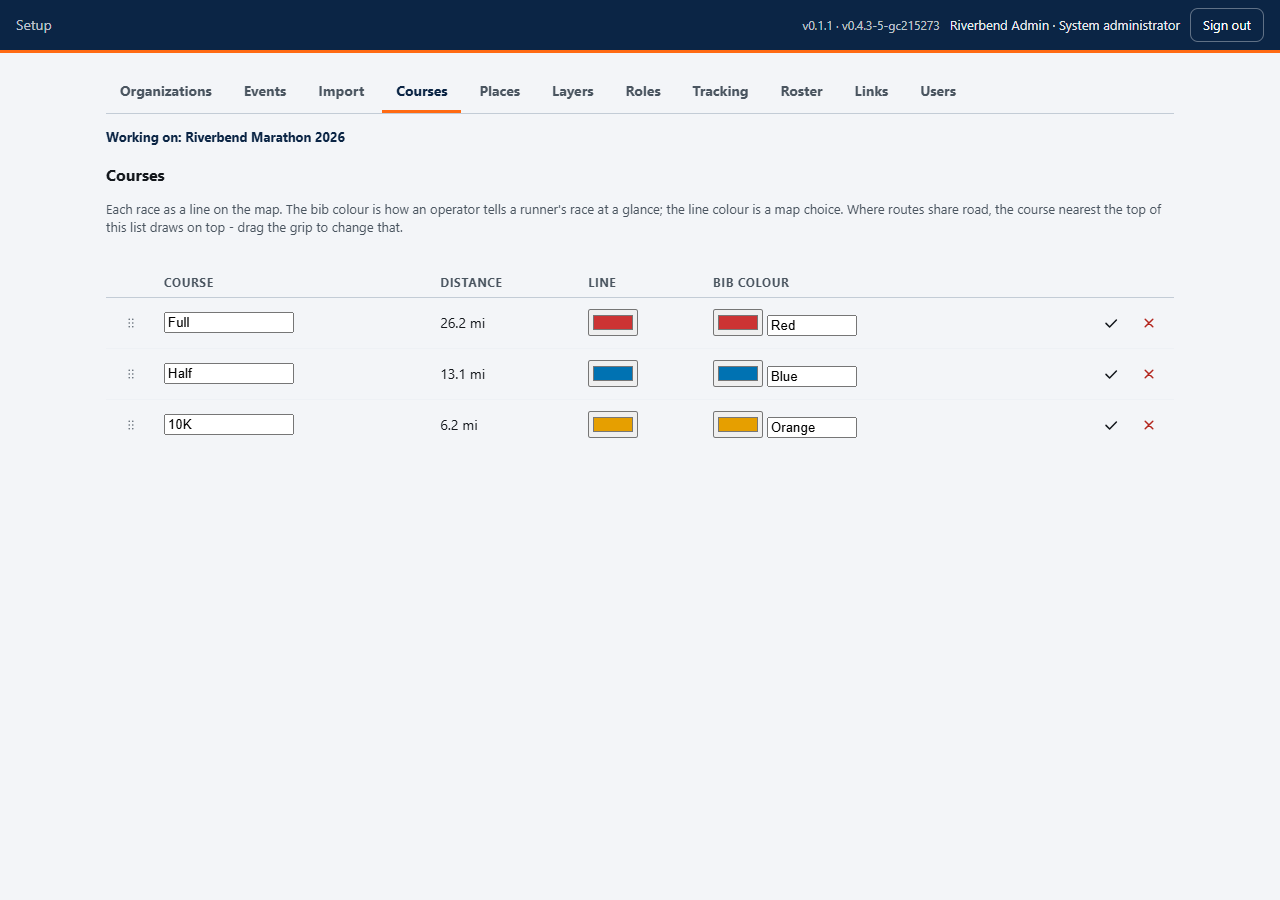
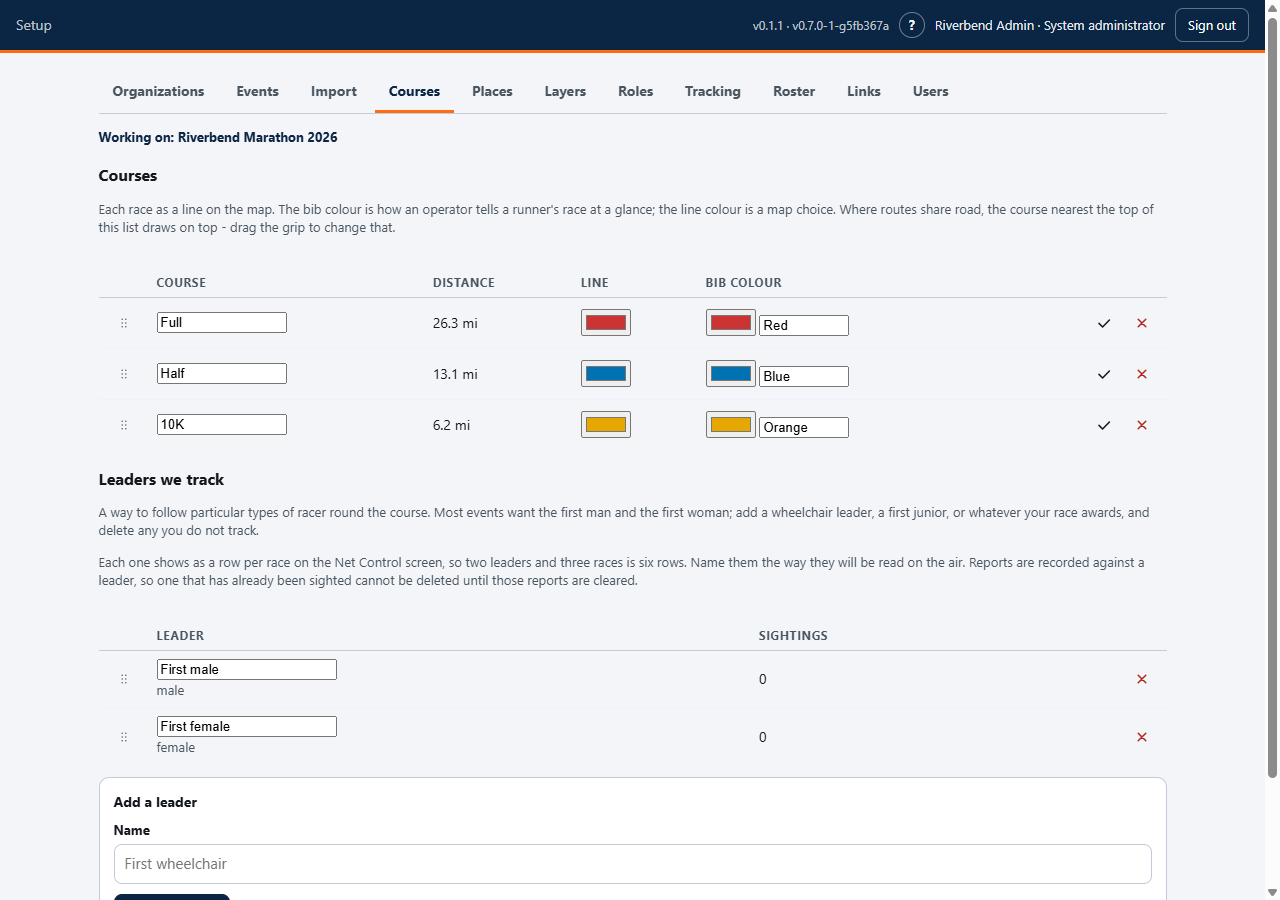
docs: screenshots and a guide section for the leaders list (#103)
The Courses tab gained a "Leaders we track" list in 0.7.0, and
setup-courses.png stopped at the empty space where it now sits. A stale
screenshot is more convincing than stale text, because it looks like
proof.

Re-shot setup-courses.png against the same demo event the rest of the set
uses, and added setup-leaders.png showing a third leader after adding
one. The setup guide gains a "Leaders we track" section: rename, add,
delete, the row-per-race-per-leader arithmetic, and the two rules a club
will meet - renaming is safe, and a leader with sightings cannot be
deleted until they are cleared.

ncs-leaders.png is left alone: it shows the two leaders a new event comes
with, which is still exactly what a default event looks like.

Claude-Session: https://claude.ai/code/session_01Rn3f7pn9v881Ek6nEawvSe

diff --git a/docs/wiki/setup.md b/docs/wiki/setup.md
@@ -76,6 +76,36 @@ viewer can re-stack their own screen without affecting anybody else.
 **Check the distance.** If a course reads 3 mi when it should read 13, segments
 are missing or one belongs to a different route.
 
+### Leaders we track
+
+![The Leaders we track list: rename, add, delete, drag to reorder](images/setup-leaders.png)
+
+Underneath the courses, on the same tab, is the list of **leaders** - the types
+of racer you want a position for as they come round. A new event starts with
+*First male* and *First female*. Rename them to your own wording, add a
+wheelchair leader or a first junior, delete any your race does not award, and
+drag them into the order they get read on the air.
+
+The name is the whole label, exactly as it appears on the Net Control screen,
+so type *First wheelchair* rather than *Wheelchair* if that is what will be
+said on the net.
+
+**Mind the arithmetic before adding a fourth.** Net Control sees one row per
+race per leader, so three races and two leaders is six rows; three races and
+four leaders is twelve. Track what will actually be called in.
+
+Two things behave the way the place layers and station roles do:
+
+- **Renaming is always safe.** Reports are recorded against the leader itself,
+  not against its wording, so changing *First female* to *First woman*
+  mid-event leaves every sighting where it is.
+- **A leader that has been sighted cannot be deleted** until its sightings are
+  cleared - the app will tell you how many are in the way. Otherwise the
+  reports would quietly vanish from the panel with nothing to say where they
+  went. Clearing is on the Net Control screen, per race and per leader.
+
+Do this before the event rather than during it.
+
 ## 4. Places
 
 ![The Places tab: order, mile, name, layer, which races, pin label, coordinates, what3words](images/setup-places.png)
